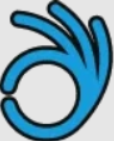
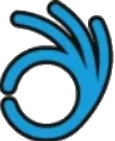
great

diff --git a/packages/shared/src/types.ts b/packages/shared/src/types.ts
@@ -102,6 +102,14 @@ export const respondIoIncomingMessageSchema = z.object({
     // message itself rather than nesting under `attachments`. We capture
     // both spellings and the helper picks whichever is non-empty.
     attachment: z.object({}).passthrough().nullish().transform((v) => v ?? undefined),
+    // Meta Click-to-WhatsApp ad referral data, attached to the FIRST
+    // inbound message when a contact reaches the business via a CTWA ad.
+    // Miguel's email 2026-05-11 — to be consumed by the lead-source
+    // attribution flow (see memory `project_lead_source_attribution.md`).
+    // Captured here as passthrough so the shape we get from Meta /
+    // Respond.io survives unchanged for the consumer; we don't act on it
+    // yet (impl deferred until GT pilot stabilizes).
+    referral: z.object({}).passthrough().nullish().transform((v) => v ?? undefined),
   }),
   conversation: z
     .object({

diff --git a/apps/server/src/routes/webhook.ts b/apps/server/src/routes/webhook.ts
@@ -85,6 +85,11 @@ export async function webhookRoutes(app: FastifyInstance) {
           !!parsed.data.message?.attachment ||
           (Array.isArray(parsed.data.message?.attachments) &&
             parsed.data.message.attachments.length > 0),
+        // Boolean only — referral body itself may carry PII (utm tokens
+        // can leak ad campaign names, ctwa_clid is per-user). The full
+        // referral object is preserved on the parsed payload for the
+        // lead-source attribution worker to consume when implemented.
+        hasReferral: !!parsed.data.message?.referral,
         contactId: parsed.data.contact?.id ?? null,
       },
       "webhook payload received",